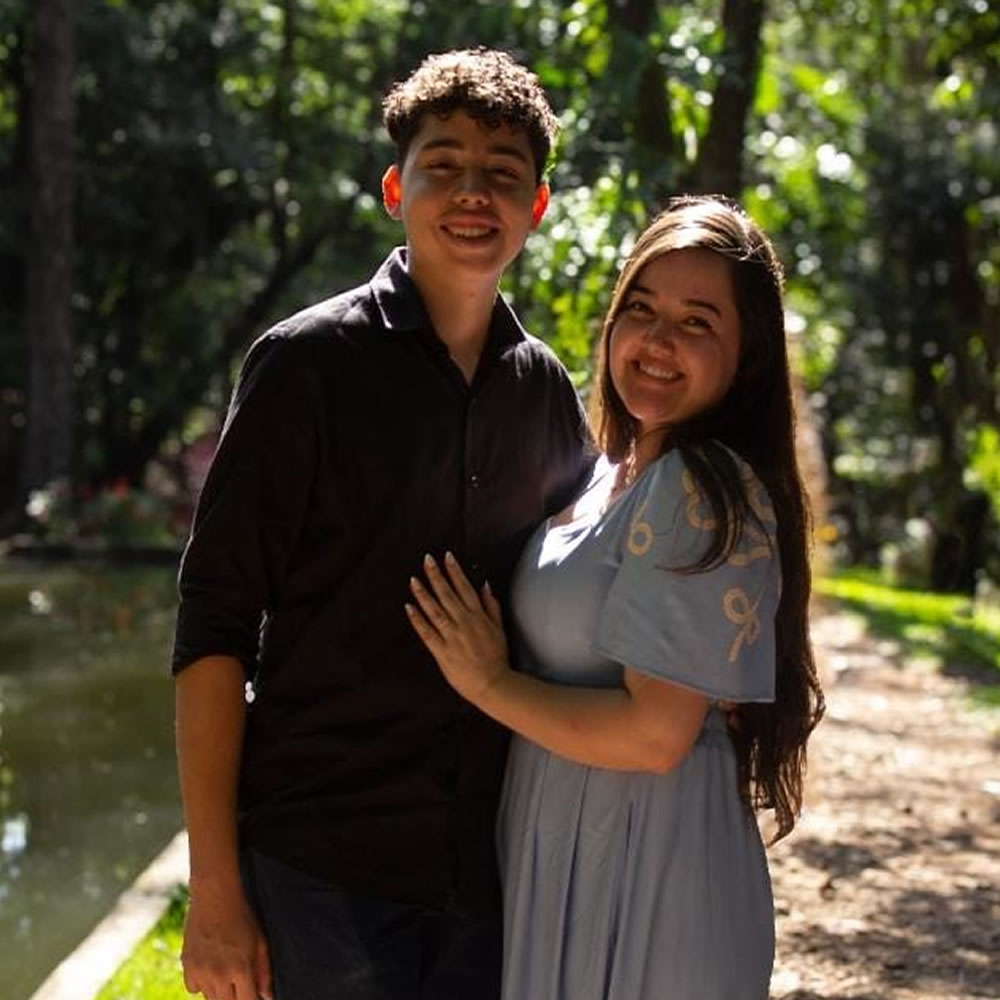
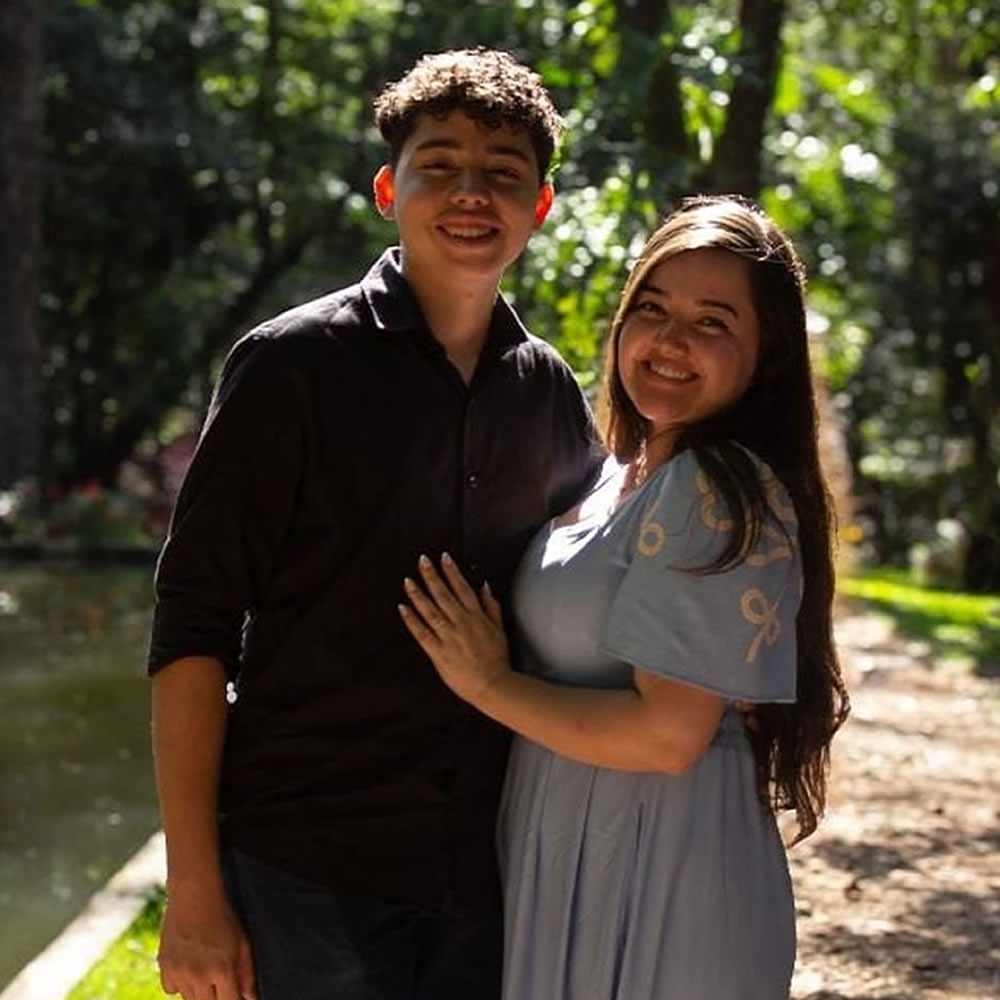
atualização: fade nas fotos e carrossel arrumado

diff --git a/Index.html b/Index.html
@@ -17,18 +17,29 @@
   </header>
 
   <!-- GALERIA -->
-  <section class="gallery">
+  <section class="historia">
     <h2>Nossa história</h2>
 
-    <div class="photos">
-      <img src="assets/Fotogg1.jpg" alt="Foto nossa">
-      <img src="assets/Fotogg2.jpg" alt="Foto nossa">
-      <img src="assets/Fotogg3.jpg" alt="Foto nossa">
-      <img src="assets/Fotogg4.jpg" alt="Foto nossa">
-      <img src="assets/Fotogg5.jpg" alt="Foto nossa">
-      <img src="assets/Fotogg6.jpg" alt="Foto nossa">
-      <img src="assets/Fotogg7.jpg" alt="Foto nossa">
-      <img src="assets/Fotogg8.jpg" alt="Foto nossa">
+    <div class="carousel">
+      <div class="carousel-track">
+        <img src="assets/Fotogg1.jpg" alt="Foto nossa">
+        <img src="assets/Fotogg2.jpg" alt="Foto nossa">
+        <img src="assets/Fotogg3.jpg" alt="Foto nossa">
+        <img src="assets/Fotogg4.jpg" alt="Foto nossa">
+        <img src="assets/Fotogg5.jpg" alt="Foto nossa">
+        <img src="assets/Fotogg6.jpg" alt="Foto nossa">
+        <img src="assets/Fotogg7.jpg" alt="Foto nossa">
+        <img src="assets/Fotogg8.jpg" alt="Foto nossa">
+
+        <img src="assets/Fotogg1.jpg" alt="Foto nossa">
+        <img src="assets/Fotogg2.jpg" alt="Foto nossa">
+        <img src="assets/Fotogg3.jpg" alt="Foto nossa">
+        <img src="assets/Fotogg4.jpg" alt="Foto nossa">
+        <img src="assets/Fotogg5.jpg" alt="Foto nossa">
+        <img src="assets/Fotogg6.jpg" alt="Foto nossa">
+        <img src="assets/Fotogg7.jpg" alt="Foto nossa">
+        <img src="assets/Fotogg8.jpg" alt="Foto nossa">
+      </div>
     </div>
   </section>
 

diff --git a/css/style.css b/css/style.css
@@ -55,9 +55,9 @@ body {
   text-decoration: none;
   border-radius: 12px;
 }
-.gallery {
-  text-align: center ;
-  padding: 3rem rem;
+.historia {
+  text-align: center;
+  overflow: hidden;
 }
 
 .photos {
@@ -486,4 +486,75 @@ button:disabled {
 
 .login-box input::placeholder {
   color: rgba(255,255,255,0.6);
+}
+.carousel {
+  width: 100%;
+  overflow: hidden;
+  position: relative;
+}
+
+.carousel-track {
+  display: flex;
+  gap: 30px;
+  width: max-content;
+
+  animation: scrollFotos 60s linear infinite;
+}
+
+.carousel-track img {
+  width: 280px;
+  height: 380px;
+  object-fit: cover;
+  border-radius: 18px;
+  box-shadow: 0 20px 40px rgba(0,0,0,0.15);
+  filter: blur(0.6px);
+  transition: filter 0.4s ease, transform 0.4s ease;
+}
+.carousel {
+  width: 100%;
+  overflow: hidden;
+  position: relative;
+}
+
+/* Fade esquerdo */
+.carousel::before,
+.carousel::after {
+    width: 160px;
+  content: "";
+  position: absolute;
+  top: 0;
+  width: 120px;
+  height: 100%;
+  z-index: 2;
+  pointer-events: none;
+}
+
+/* Esquerda */
+.carousel::before {
+  left: 0;
+  background: linear-gradient(
+    to right,
+    #fff 0%,
+    rgba(255,255,255,0) 100%
+  );
+}
+
+/* Direita */
+.carousel::after {
+  right: 0;
+  background: linear-gradient(
+    to left,
+    #fff 0%,
+    rgba(255,255,255,0) 100%
+  );
+}
+
+/* Animação */
+@keyframes scrollFotos {
+  0% {
+    transform: translateX(0);
+  }
+  100% {
+    transform: translateX(-50%);
+  }
 }
